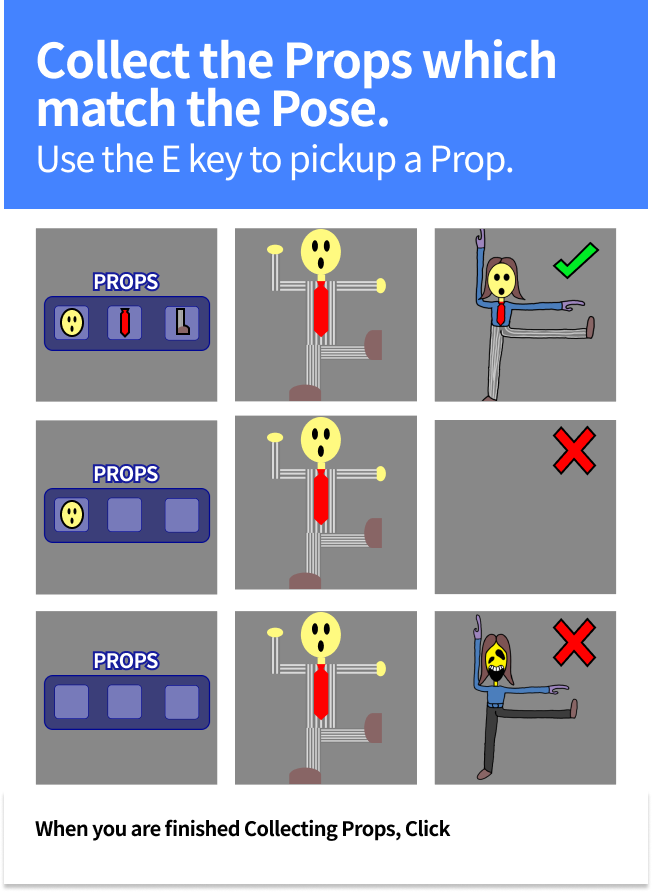
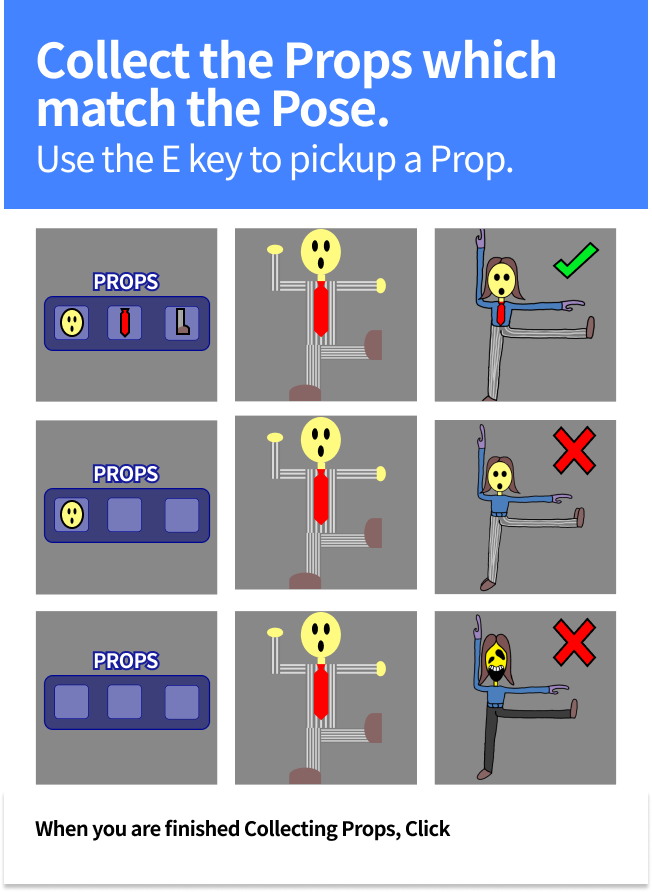
Fixed Prompt 2 image && added time up sfx
Fixed Prompt 2 image for tutorial
Fixed bug where stoptimer() gets called twice when clicking submit

Changed region(s): [[0.7055, 0.4843, 0.9202, 0.6659]]

diff --git a/AreYouAHuman/Assets/Scripts/GameManager.cs b/AreYouAHuman/Assets/Scripts/GameManager.cs
@@ -47,6 +47,9 @@ public class GameManager : MonoBehaviour
     //Reference to current scene
     private int currentScene;
 
+    //Reference to Audio stuff
+    public AudioManager audioManager;
+    public AudioSource sfxSource;
     // Start is called before the first frame update
     //Make sure to initialize (reset) variables EVERY TIME a scene is loaded.
     void Start()
@@ -114,6 +117,7 @@ public class GameManager : MonoBehaviour
         Debug.Log("Call CheckPose() method.");
         player.SetActive(false);
         currentStateText.text = "FINISH!";
+        sfxSource.PlayOneShot(audioManager.timesUp);
         Invoke("ComparePose", 3.0f);
     }
 
@@ -139,15 +143,17 @@ public class GameManager : MonoBehaviour
                 {
                     timerText.text = minutes.ToString() + ":0" + seconds.ToString();
                 }
+                if(seconds <= 0)
+                {
+                    StopTimer();
+                }
             }
             if(timerRunning == false)
             {
+                Debug.Log("STOP TIMER");
                 break;
             }
-
         }
-        StopTimer();
-
     }
 
     public void ComparePose()
@@ -157,10 +163,15 @@ public class GameManager : MonoBehaviour
         //  PrefabUtility.GetPrefabType(correctItem);  
          if(playerInventory.Contains(correctItem) && playerInventory.Contains(correctItem2) && playerInventory.Contains(correctItem3))
          {
-            Debug.Log("ALL ITEMS COLLECTED");
+                 Debug.Log("ALL ITEMS COLLECTED");
                  playerPose.sprite = poseImages[0];
                  boxIcon.sprite = checkmark;
                  continueButton.SetActive(true);
+                 sfxSource.PlayOneShot(audioManager.correctPose);
+         }
+         else 
+         {
+               sfxSource.PlayOneShot(audioManager.wrongPose);
          }
         //  switch(itemsCollected)
         //  {
